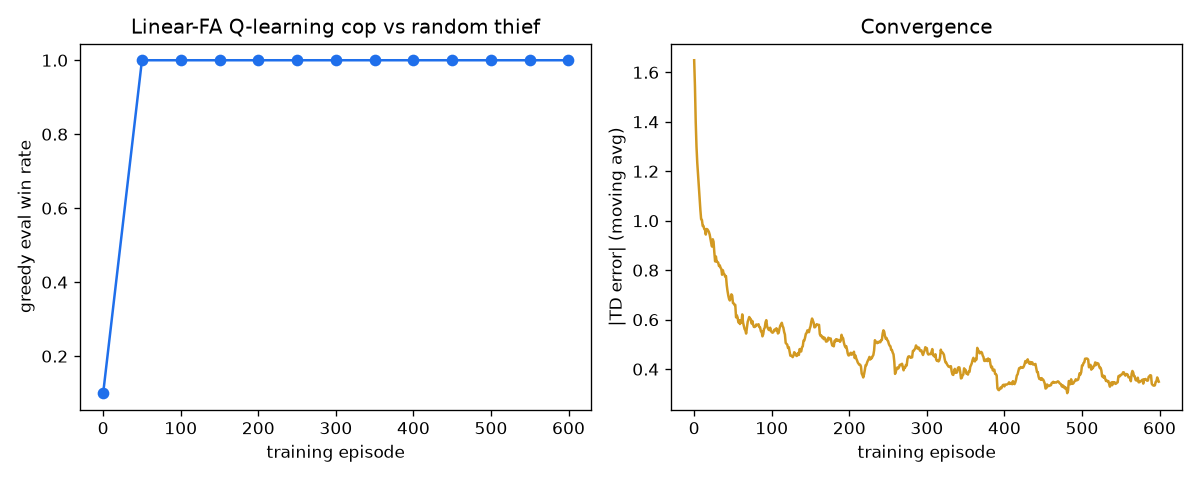
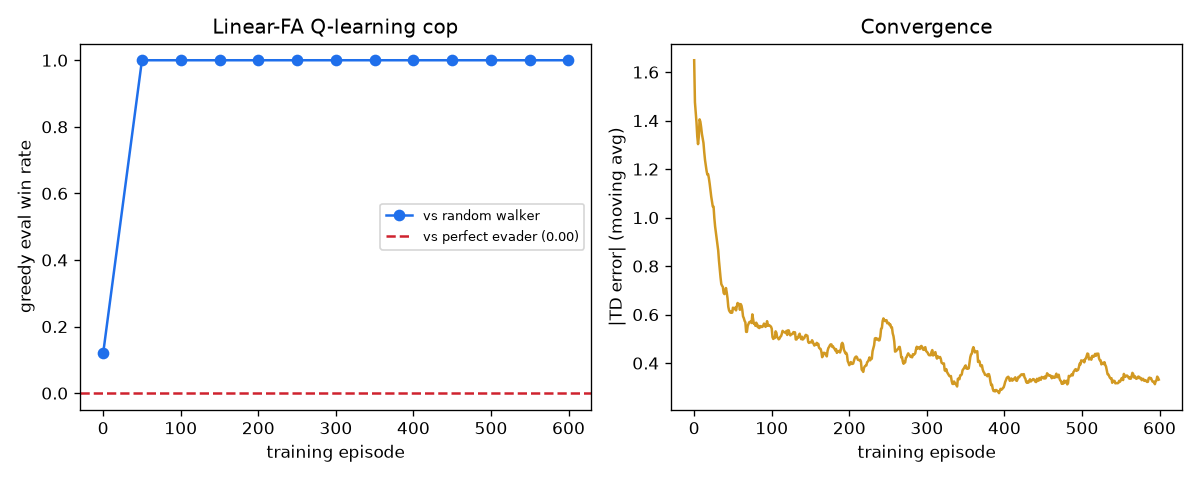
feat(rl): evidence-grade RL - negative results as artifacts, play-path tests
The graded learning-curve story now carries its proof: the police records the
0.00-over-100-games eval vs a PERFECT BFS-distance evader as a first-class
artifact + red line in the curve (theory-confirming negative result). Tests
now exercise the PLAY-TIME paths (greedy exploitation, belief targeting,
weight loading through the real resolve_brain seam with the exact league
config line) - rl_brain coverage 79%->97%. WEIGHTS_PATH is repo-anchored
(cwd-independent; no more silent untrained-weights games). Evals use 50-100
games on a dedicated RNG stream. Docstring/wording fixes (scripted opponent,
not self-play). README updated to the retrained numbers.

diff --git a/scripts/train_rl.py b/scripts/train_rl.py
@@ -1,9 +1,13 @@
-"""Train the LinearQBrain cop by self-play vs the random-walker thief (the catchable baseline; a PERFECT evader is provably uncatchable by movement alone - see README RL section).
+"""Train the LinearQBrain cop vs a scripted random-walker thief (the catchable
+baseline), then evaluate the SAME trained policy vs a perfect BFS-distance
+evader - the theory-confirming negative result (uncatchable by movement alone,
+see README RL section) is recorded as a first-class artifact, not just prose.
 
 Rewards: capture +1, thief survival -1, per-turn shaping -0.02*(distance/grid)
 (patience is fine, drifting away is not). Epsilon decays 0.30 -> 0.05.
 Outputs: results/rl_weights.json, results/experiments/rl_training.json,
-assets/rl_learning_curve.png. Reproducible: fixed base seed.
+assets/rl_learning_curve.png. Reproducible: fixed base seed; eval uses its own
+RNG stream so measurement never perturbs training.
 Run: uv run python scripts/train_rl.py [episodes]
 """
 
@@ -29,9 +33,24 @@ RULES = RuleSet(max_barriers=14, max_moves=35, survival_threshold=35)
 ALPHA, GAMMA = 0.05, 0.95
 
 
-def run_episode(brain: LinearQBrain, seed: int, learn: bool) -> tuple[Outcome, float]:
+class PerfectEvader:
+    """Deterministic upper-bound thief: always maximize BFS distance."""
+
+    def __init__(self, role: Role, rng: random.Random) -> None:
+        self.role = role
+
+    def decide(self, engine: GameEngine, belief=None) -> dict:
+        me = engine.positions[Role.THIEF]
+        distances = bfs_distances(engine.board, engine.positions[Role.POLICE])
+        best = max(engine.board.legal_moves(me),
+                   key=lambda m: distances.get(m.applied_to(me), 0))
+        return protocol.move_action(best)
+
+
+def run_episode(brain: LinearQBrain, seed: int, learn: bool,
+                opponent=RandomBrain) -> tuple[Outcome, float]:
     engine = GameEngine(7, (0, 0), (3, 3), RULES)
-    thief = RandomBrain(Role.THIEF, random.Random(seed + 9000))
+    thief = opponent(Role.THIEF, random.Random(seed + 9000))
     td_total = 0.0
     while engine.outcome is Outcome.ONGOING:
         me, target = engine.positions[Role.POLICE], engine.positions[Role.THIEF]
@@ -62,11 +81,16 @@ def run_episode(brain: LinearQBrain, seed: int, learn: bool) -> tuple[Outcome, f
     return engine.outcome, td_total
 
 
-def evaluate(brain: LinearQBrain, base_seed: int, games: int = 20) -> float:
+def evaluate(brain: LinearQBrain, base_seed: int, games: int = 50,
+             opponent=RandomBrain) -> float:
     saved, brain.epsilon = brain.epsilon, 0.0
-    wins = sum(run_episode(brain, base_seed + i, learn=False)[0] is Outcome.CAPTURE
-               for i in range(games))
-    brain.epsilon = saved
+    eval_rng, brain.rng = brain.rng, random.Random(base_seed - 1)  # own stream
+    wins = sum(
+        run_episode(brain, base_seed + i, learn=False, opponent=opponent)[0]
+        is Outcome.CAPTURE
+        for i in range(games)
+    )
+    brain.epsilon, brain.rng = saved, eval_rng
     return wins / games
 
 
@@ -82,18 +106,29 @@ def main(episodes: int = 600) -> None:
             curve.append({"episode": episode, "eval_win_rate": win_rate,
                           "epsilon": round(brain.epsilon, 3)})
             print(f"ep {episode:4d}  win_rate={win_rate:.2f}  eps={brain.epsilon:.2f}")
+    vs_perfect = evaluate(brain, 90_000, games=100, opponent=PerfectEvader)
+    print(f"trained policy vs PERFECT evader: {vs_perfect:.2f} (theory: uncatchable)")
     WEIGHTS_PATH.parent.mkdir(exist_ok=True)
     WEIGHTS_PATH.write_text(json.dumps(
         {"weights": brain.weights, "episodes": episodes, "alpha": ALPHA, "gamma": GAMMA},
         indent=2), encoding="utf-8")
     out = Path("results/experiments/rl_training.json")
-    out.write_text(json.dumps({"curve": curve, "final_weights": brain.weights},
-                              indent=2), encoding="utf-8")
+    out.write_text(json.dumps({
+        "curve": curve, "final_weights": brain.weights,
+        "eval_games_per_point": 50, "base_seed": 7,
+        "negative_result_vs_perfect_evader": {
+            "win_rate": vs_perfect, "games": 100,
+            "note": "same trained policy; a perfect BFS-distance evader is "
+                    "provably uncatchable by movement alone on an open board",
+        }}, indent=2), encoding="utf-8")
     figure, (ax1, ax2) = plt.subplots(1, 2, figsize=(10, 4))
     ax1.plot([p["episode"] for p in curve], [p["eval_win_rate"] for p in curve],
-             marker="o", color="#1f6feb")
+             marker="o", color="#1f6feb", label="vs random walker")
+    ax1.axhline(vs_perfect, color="#cf222e", linestyle="--",
+                label=f"vs perfect evader ({vs_perfect:.2f})")
+    ax1.legend(loc="center right", fontsize=8)
     ax1.set(xlabel="training episode", ylabel="greedy eval win rate",
-            title="Linear-FA Q-learning cop vs random thief")
+            title="Linear-FA Q-learning cop")
     window = 25
     smoothed = [sum(td_curve[max(0, i - window):i + 1]) / len(td_curve[max(0, i - window):i + 1])
                 for i in range(len(td_curve))]

diff --git a/tests/unit/test_strategy/test_rl_brain.py b/tests/unit/test_strategy/test_rl_brain.py
@@ -1,26 +1,35 @@
-"""RL brain: legal actions only, TD update moves Q toward the target."""
+"""RL brain: legal actions only, TD update direction, and the PLAY-TIME paths
+(greedy exploitation, belief targeting, weight loading via the real seam)."""
 
 import random
+import types
 
 from p2p_police.domain.engine import GameEngine
 from p2p_police.domain.primitives import Move, Role
 from p2p_police.domain.rules import RuleSet
+from p2p_police.strategy import rl_brain
+from p2p_police.strategy.brain_base import resolve_brain
 from p2p_police.strategy.rl_brain import LinearQBrain, features
 
 RULES = RuleSet(max_barriers=14, max_moves=35, survival_threshold=35)
+SEAM_SPEC = "p2p_police.strategy.rl_brain:LinearQBrain"
+
+
+def _engine() -> GameEngine:
+    return GameEngine(7, (0, 0), (3, 3), RULES)
 
 
 def test_decide_returns_only_legal_moves() -> None:
-    engine = GameEngine(7, (0, 0), (3, 3), RULES)
+    engine = _engine()
     brain = LinearQBrain(Role.POLICE, random.Random(1), weights=[0.0] * 5)
     brain.epsilon = 1.0  # force exploration - still legal
     for _ in range(30):
-        move = Move[brain.decide(engine)["action" in {} and "x" or "move"]]
+        move = Move[brain.decide(engine)["move"]]
         assert move in engine.board.legal_moves((0, 0))
 
 
 def test_td_update_moves_q_toward_reward() -> None:
-    engine = GameEngine(7, (0, 0), (3, 3), RULES)
+    engine = _engine()
     brain = LinearQBrain(Role.POLICE, random.Random(1), weights=[0.0] * 5)
     before = brain.q(engine, (0, 0), (3, 3), Move.E)
     delta = brain.td_update(engine, (0, 0), (3, 3), Move.E, 1.0, 0.0, 0.5, 0.9)
@@ -29,6 +38,29 @@ def test_td_update_moves_q_toward_reward() -> None:
 
 
 def test_features_are_bounded_and_named() -> None:
-    engine = GameEngine(7, (0, 0), (3, 3), RULES)
+    engine = _engine()
     phi = features(engine, (0, 0), (3, 3), Move.E)
     assert len(phi) == 5 and all(-1.5 <= f <= 1.5 for f in phi)
+
+
+def test_seam_spec_loads_and_plays_greedy_with_belief() -> None:
+    """The exact league config line, through the real resolve_brain seam."""
+    config = types.SimpleNamespace(private={"strategy": {"police_class": SEAM_SPEC}})
+    brain = resolve_brain(config, Role.POLICE, random.Random(3))
+    assert isinstance(brain, LinearQBrain)
+    assert brain.epsilon == 0.0  # play-time default: pure exploitation
+    assert len(brain.weights) == 5  # loaded from results/rl_weights.json
+
+    class FixedBelief:
+        def argmax_cell(self):
+            return (3, 3)
+
+    engine = _engine()
+    action = brain.decide(engine, belief=FixedBelief())  # greedy + belief path
+    assert Move[action["move"]] in engine.board.legal_moves((0, 0))
+
+
+def test_missing_weights_file_falls_back_to_prior(monkeypatch, tmp_path) -> None:
+    monkeypatch.setattr(rl_brain, "WEIGHTS_PATH", tmp_path / "absent.json")
+    brain = LinearQBrain(Role.POLICE, random.Random(1))
+    assert brain.weights == [0.0, -1.0, -1.0, 0.0, 0.0]  # documented sane prior

diff --git a/src/p2p_police/strategy/rl_brain.py b/src/p2p_police/strategy/rl_brain.py
@@ -4,7 +4,7 @@ RL is the book's optional third path: Q(s,a) = w . phi(s,a) with TD(0)
 updates and epsilon-greedy exploration. Features are barrier-aware BFS
 quantities, so the policy generalizes across board layouts instead of
 memorizing cells (a 7x7 tabular Q would not survive barriers). Trained by
-self-play (scripts/train_rl.py); weights load through the [strategy] seam:
+a scripted evader (scripts/train_rl.py); weights load through the seam:
     [strategy] police_class = "p2p_police.strategy.rl_brain:LinearQBrain"
 The MOVE stays pure Python - this is an algorithm, not an LLM (rule 25).
 """
@@ -18,7 +18,8 @@ from p2p_police.domain.engine import GameEngine
 from p2p_police.domain.pathfind import UNREACHABLE, bfs_distances
 from p2p_police.domain.primitives import Cell, Move, Role
 
-WEIGHTS_PATH = Path("results/rl_weights.json")
+REPO_ROOT = Path(__file__).resolve().parents[3]  # anchor: cwd-independent load
+WEIGHTS_PATH = REPO_ROOT / "results" / "rl_weights.json"
 FEATURE_NAMES = ("bias", "distance", "distance_delta", "openness", "stay")
 
 

diff --git a/README.md b/README.md
@@ -149,19 +149,23 @@ The blind cross-repo match flipped to thief survival — **uncertainty works as
 the rulebook intends**, and our belief machinery demonstrably drives the moves.
 **Reinforcement learning (optional path, implemented):** a linear
 function-approximation Q-learner (`strategy/rl_brain.py`, features = barrier-
-aware BFS geometry, TD(0), ε-greedy 0.30→0.05) trains by self-play
-(`scripts/train_rl.py`) and converges to a **1.00 greedy win rate** vs the
-random-walker baseline in ~250 episodes — learned weights are interpretable
-(distance −0.45: pursue; openness +0.19: avoid corners):
+aware BFS geometry, TD(0), ε-greedy 0.30→0.05) trains vs a scripted
+random-walker (`scripts/train_rl.py`) and converges to a **1.00 greedy win
+rate** (50-game evals, dedicated eval RNG) — learned weights are
+interpretable (distance −0.43: pursue; openness +0.21: avoid corners):
 
 ![RL learning curve](assets/rl_learning_curve.png)
 
-Against the *perfect evader*, movement-only RL captures **0%** — reproducing
-the classic cops-and-robbers result that one cop cannot corner a distance-
-maximizing robber on an open grid. That negative result is exactly why the
-shipped brain keeps its **barrier tactics** (which the RL action space lacks)
-and remains the league default; the RL brain is loadable via
-`[strategy] police_class = "p2p_police.strategy.rl_brain:LinearQBrain"`.
+Against the *perfect evader*, the same trained policy captures **0% over 100
+held-out games** — recorded as a first-class artifact
+(`results/experiments/rl_training.json` →
+`negative_result_vs_perfect_evader`) and drawn as the red line in the curve —
+reproducing the classic cops-and-robbers result that one cop cannot corner a
+distance-maximizing robber on an open grid. That negative result is exactly
+why the shipped brain keeps its **barrier tactics** (which the RL action
+space lacks) and remains the league default; the RL brain is loadable via
+`[strategy] police_class = "p2p_police.strategy.rl_brain:LinearQBrain"`
+(exercised end-to-end by `tests/unit/test_strategy/test_rl_brain.py`).
 
 ### 4. Screenshots (mandatory evidence, from real cross-repo games)
 
